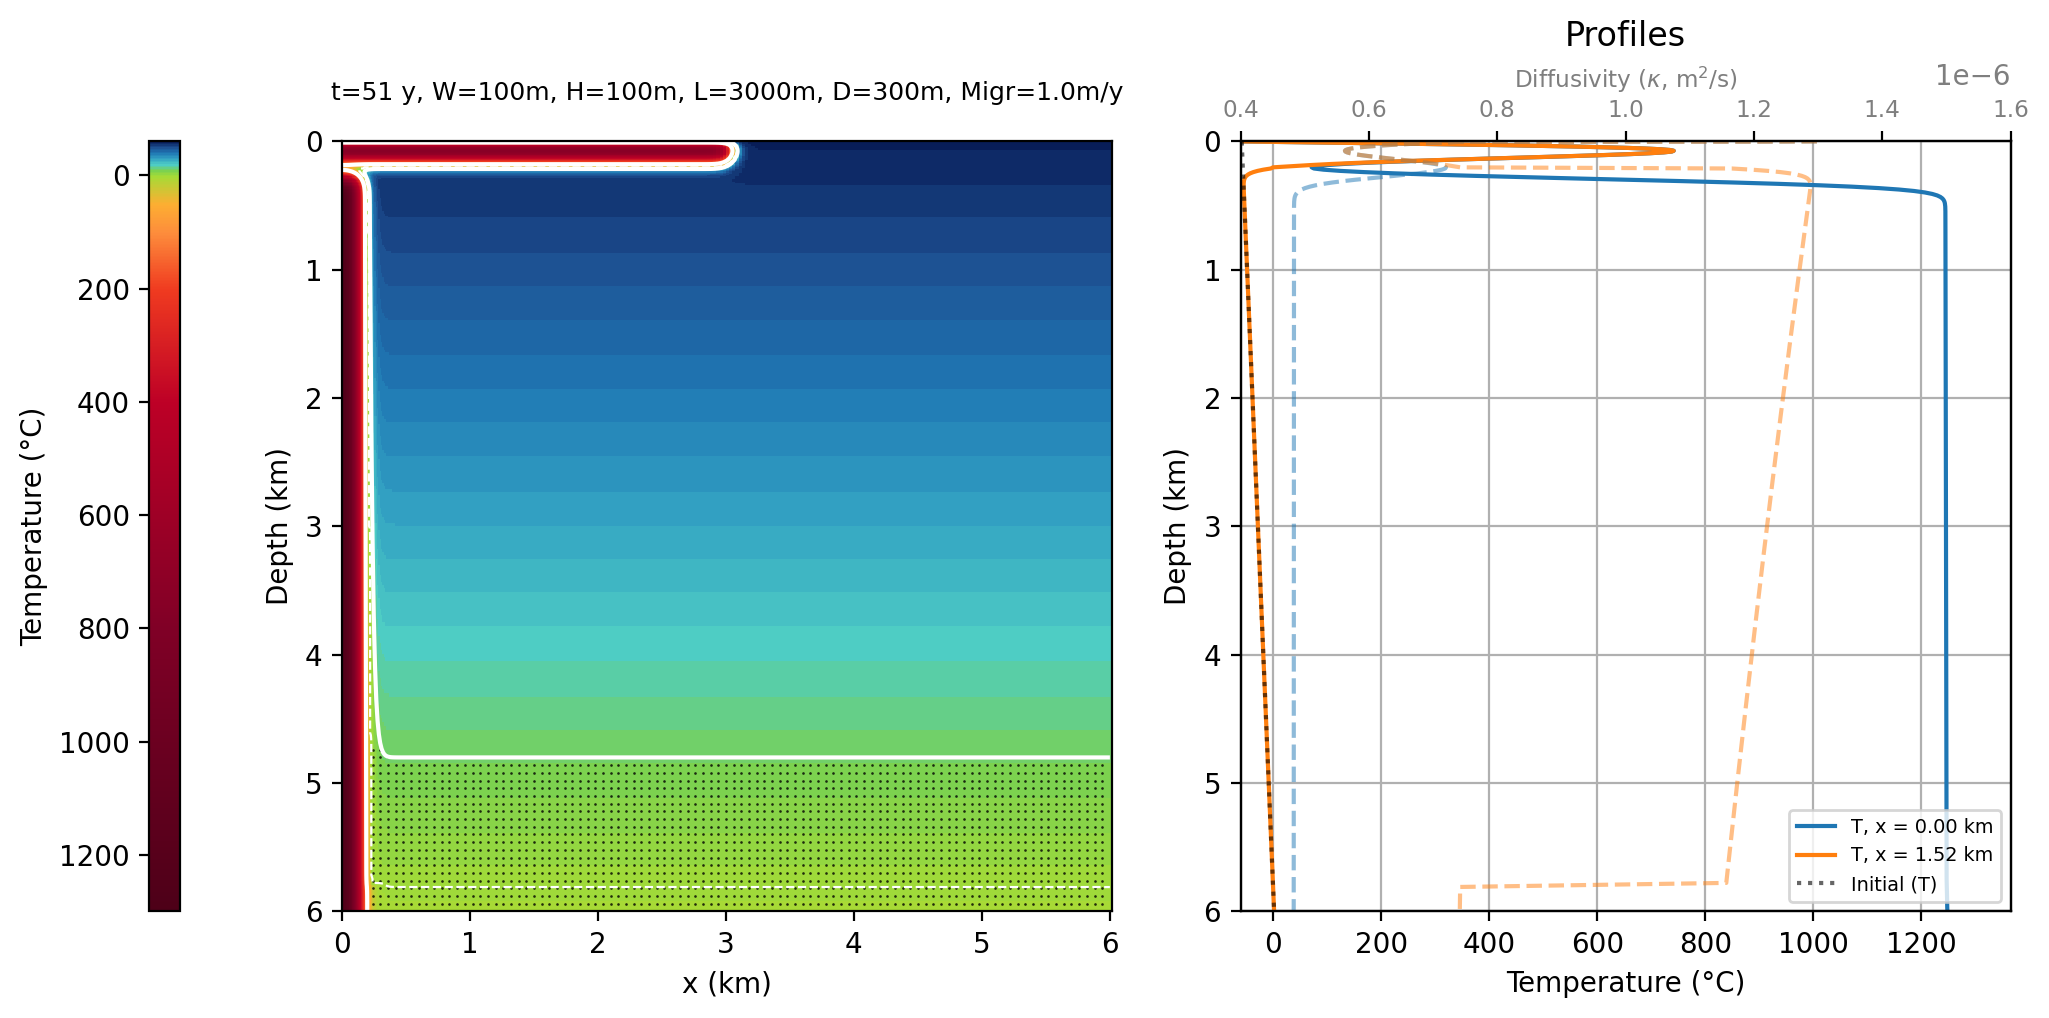
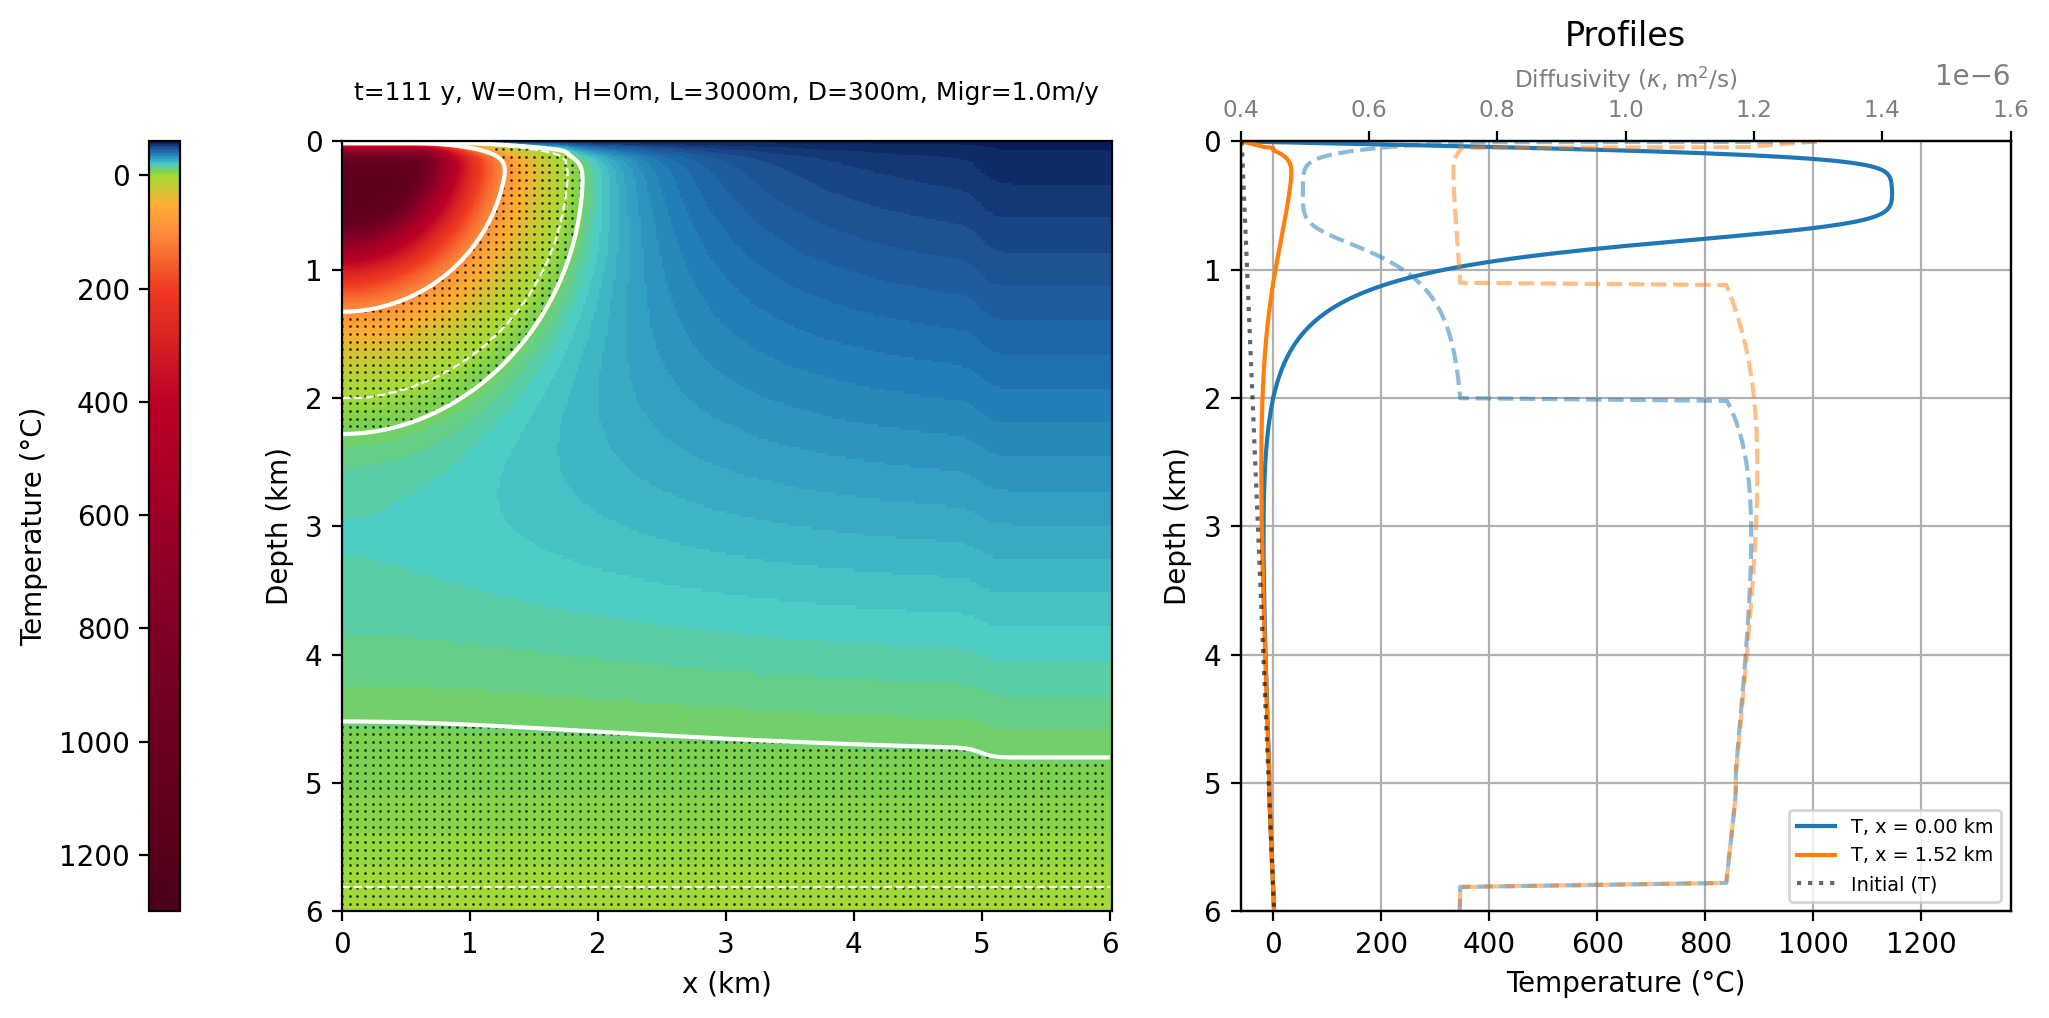
meteorite heating

diff --git a/thermal_evol.py b/thermal_evol.py
@@ -14,7 +14,7 @@ from mpl_toolkits.axes_grid1 import make_axes_locatable
 from mpl_toolkits.axes_grid1.inset_locator import inset_axes
 from matplotlib.colors import ListedColormap, BoundaryNorm, LinearSegmentedColormap
 from scipy.sparse import csr_matrix, csc_matrix
-import os, base64, glob, subprocess, shutil
+import os, base64, glob, subprocess, shutil, sys
 import argparse
 try:
     from PIL import Image  # fallback for GIF if imageio is unavailable
@@ -26,7 +26,7 @@ except Exception:
     imageio = None
 from scipy.sparse.linalg import spsolve, factorized
 from scipy.ndimage import distance_transform_edt, zoom
-from scipy.interpolate import RegularGridInterpolator
+from scipy.interpolate import RegularGridInterpolator, griddata
 from scipy.spatial import cKDTree
 
 """
@@ -106,7 +106,7 @@ dot_spacing_plot = Lx/100   # Visualization spacing (constant dot density)
 # ===================== CLI & SUMMARY =====================
 def setup_cli():
     global Lx, Lz, Nx, Nz, kappa, T_dike, T_colada, T_surface, gradT, W, L, H, D
-    global dt, t_eruption, tmax, plot_every, image_dpi, image_format, vel_migration, stretch_factor, marker_spacing, dot_spacing_plot
+    global dt, t_eruption, tmax, plot_every, image_dpi, image_format, vel_migration, stretch_factor, marker_spacing, dot_spacing_plot, initial_temp_file
 
     parser = argparse.ArgumentParser(formatter_class=argparse.ArgumentDefaultsHelpFormatter)
     parser.add_argument("--Lx", type=float, default=Lx)
@@ -128,6 +128,7 @@ def setup_cli():
     parser.add_argument("--migration", type=float, default=vel_migration)
     parser.add_argument("--marker_spacing", type=float, default=marker_spacing)
     parser.add_argument("--dot_spacing_plot", type=float, default=dot_spacing_plot)
+    parser.add_argument("--initial_temp_file", type=str, default=None, help="Path to a text file with initial temperature field (x, z, T columns). Overrides T_surface and gradT for initialization.")
     
     args = parser.parse_args()
     Lx, Lz, Nx, Nz = args.Lx, args.Lz, args.Nx, args.Nz
@@ -137,6 +138,7 @@ def setup_cli():
     vel_migration, stretch_factor = args.migration, args.stretch
     marker_spacing = args.marker_spacing
     dot_spacing_plot = args.dot_spacing_plot
+    initial_temp_file = args.initial_temp_file
 
 def print_summary():
     x_coords = Lx * (np.linspace(0, 1, Nx)**stretch_factor)
@@ -153,8 +155,11 @@ def print_summary():
     print("-" * 60)
     print(f"Time:        tmax={tmax/YR:.0f}y, dt={dt/YR:.1f}y, Migr={vel_migration} m/y")
     print(f"Diffusivity: 0°C: {get_martian_kappa(0.0):.2e} m^2/s; {T_surface}°C): {kappa:.2e} m^2/s")
-    print(f"Physics:     porosity={porosity:.2e}, gradT={gradT} C/m")
-    print(f"Temps:       Surface={T_surface}C, Dike={T_dike}C, Flow={T_colada}C")
+    if initial_temp_file:
+        print(f"Initial T:   From file '{initial_temp_file}'")
+    else:
+        print(f"Physics:     porosity={porosity:.2e}, gradT={gradT} C/m")
+        print(f"Temps:       Surface={T_surface}C, Dike={T_dike}C, Flow={T_colada}C")
     print("="*60 + "\n")
 
 setup_cli()
@@ -457,16 +462,12 @@ def simulacion(T_init, x, z, kappa, dt, tmax, T_dike, t_eruption, T_surface, gra
                 try: c.remove()
                 except: pass
             
-            # Define contour levels from -10C to 100C every 10 degrees
-            contour_levels = np.arange(-10, 101, 10)
-            
-            # Plot the general contours with a standard width
-            c_main = ax_map.contour(Xm, Zm, Tcur, levels=contour_levels, colors='white', linewidths=0.8)
-            
-            # Overlay a thicker contour specifically for 0C
-            c_zero = ax_map.contour(Xm, Zm, Tcur, levels=[0], colors='white', linewidths=1.6, linestyles='solid')
-            
-            contour_artists = [c_main, c_zero]
+            # Plot main 100C and Tmin_life contours as solid, thick lines
+            # Explicitly setting linestyles='solid' prevents negative contours (Tmin_life = -2.0) from being dashed
+            c_main = ax_map.contour(Xm, Zm, Tcur, levels=[Tmin_life, 100.0], colors='white', linewidths=1.5, linestyles='solid')
+            # Plot 0.1C as a dashed, thinner line
+            c_phase = ax_map.contour(Xm, Zm, Tcur, levels=[0.1], colors='white', linewidths=0.8, linestyles='dashed')
+            contour_artists = [c_main, c_phase]
             
             line_x0.set_xdata(Tcur[:, j0]); line_x1.set_xdata(Tcur[:, j_prof])
             line_k0.set_xdata(get_martian_kappa(Tcur[:, j0])); line_k1.set_xdata(get_martian_kappa(Tcur[:, j_prof]))
@@ -506,6 +507,30 @@ def simulacion(T_init, x, z, kappa, dt, tmax, T_dike, t_eruption, T_surface, gra
     plt.close(fig)
 
 if __name__ == "__main__":
+    # Initialize with background geotherm, which serves as a default or a base
     T_init_field = np.zeros((Nz, Nx))
     for i in range(Nz): T_init_field[i, :] = T_surface + gradT * z[i]
+
+    # If an initial temperature file is provided, load and interpolate it onto the grid
+    if initial_temp_file:
+        print(f"Loading and interpolating initial temperature from '{initial_temp_file}'...")
+        try:
+            # Load data (x, z, T)
+            data = np.loadtxt(initial_temp_file, comments='#')
+            points = data[:, :2]  # x, z
+            values = data[:, 2]   # T
+            
+            # Create the grid to interpolate onto
+            X_grid, Z_grid = np.meshgrid(x, z)
+            
+            # Interpolate. 'linear' is robust. NaNs are returned for points outside the convex hull.
+            T_interp = griddata(points, values, (X_grid, Z_grid), method='linear')
+            
+            # Where T_interp is not NaN, use it. Otherwise, keep the background geotherm.
+            T_init_field = np.where(np.isnan(T_interp), T_init_field, T_interp)
+            print("Successfully applied initial temperature field from file.")
+        except Exception as e:
+            print(f"FATAL: Could not load or process initial temperature file: {e}. Aborting.")
+            sys.exit(1)
+
     simulacion(T_init_field, x, z, kappa, dt, tmax, T_dike, t_eruption, T_surface, gradT, adaptive_dt)
